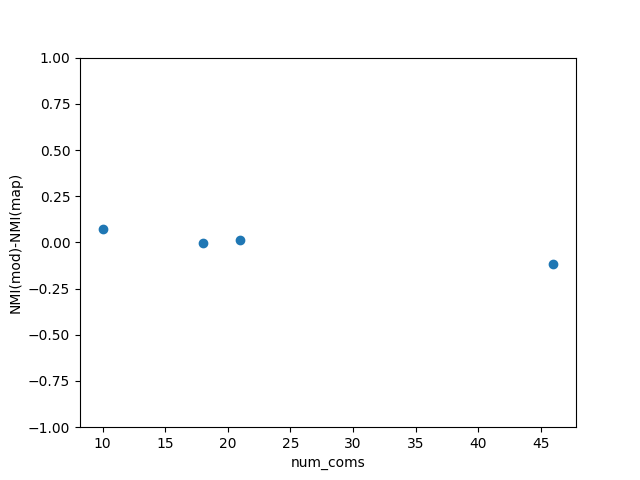
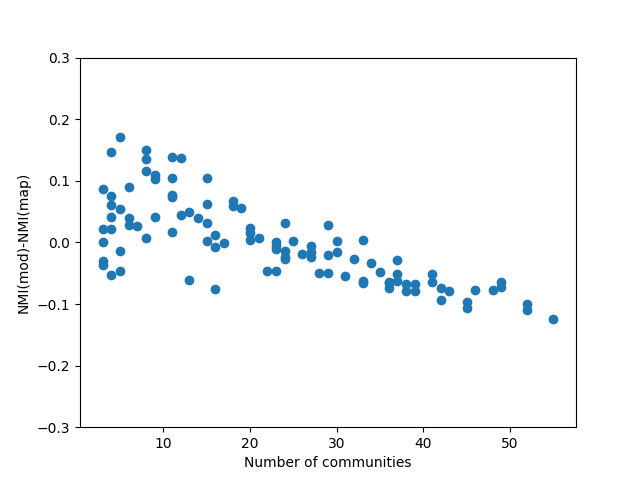
scatterplots

diff --git a/experiment/results/mu_results.tex b/experiment/results/mu_results.tex
@@ -1,15 +1,207 @@
-0.25,
-5,25,10,50,15,75,20,100,
-1
-0.25,0,0:25,5,14,18,13,5,20,11,6,25,6,6,15,14,14,14,6,7,9,10,20,10,7,5,24,7,25,5,9,7,9,9,7,9,8,6,10,6,12,12,10,7,11,7,6,9,
-0.25,0,map:0.8999903187529281,
-0.25,0,mod:0.7821359474666744,
-0.25,1,0:40,10,29,40,12,20,26,10,23,40,11,31,41,20,36,11,10,18,44,12,16,
-0.25,1,map:0.7553336480416906,
-0.25,1,mod:0.7661275815952324,
-0.25,2,0:30,18,18,29,30,21,17,24,18,24,19,16,29,36,29,69,56,17,
-0.25,2,map:0.7553144524010084,
-0.25,2,mod:0.7511096946495094,
-0.25,3,0:41,24,68,54,74,90,20,23,81,25,
-0.25,3,map:0.6182374507053332,
-0.25,3,mod:0.6883487021471024,
+0.2,
+5,25,10,50,15,75,20,100,25,125,30,150,35,175,40,200,45,225,50,250,55,275,60,300,65,325,70,350,75,375,80,400,5,50,5,75,5,100,5,125,5,150,5,175,5,200,5,225,5,250,5,275,5,300,5,325,5,350,5,375,5,400,5,25,15,35,25,45,35,55,45,65,55,75,7,27,9,29,11,31,13,33,15,35,17,37,19,39,5,29,5,33,5,37,5,41,5,45,5,49,5,53,
+2
+0.2,0,0:24,5,6,12,7,13,7,5,9,6,6,5,6,7,7,6,15,9,8,11,7,13,13,5,21,7,7,7,5,6,16,5,8,6,7,24,8,15,6,19,5,6,5,5,7,20,6,5,8,9,15,12,6,7,5,
+0.2,0,1:6,10,8,6,6,6,24,8,12,7,5,10,18,9,6,6,5,14,6,14,5,8,9,5,6,8,10,5,5,7,13,14,20,14,9,9,8,7,19,9,5,11,10,13,10,6,15,23,5,5,16,5,
+0.2,0,map:0.9326636228002231,0.9362785374409338,
+0.2,0,mod:0.8089288043751323,0.8363075688355388,
+0.2,1,0:10,10,29,41,22,37,17,22,20,10,18,21,14,37,22,18,13,18,29,15,44,22,11,
+0.2,1,1:27,15,31,45,15,24,23,35,10,26,39,21,41,32,15,10,32,11,48,
+0.2,1,map:0.8548276395630169,0.8221209126137337,
+0.2,1,mod:0.8447808856255871,0.8779768780251792,
+0.2,2,0:27,43,18,20,18,23,24,26,42,22,38,19,26,49,15,66,24,
+0.2,2,1:53,41,25,24,17,18,23,39,25,71,53,29,38,29,15,
+0.2,2,map:0.8651204064681326,0.7242623786601301,
+0.2,2,mod:0.8642045770938779,0.8289396395115203,
+0.2,3,0:38,23,85,84,27,29,27,49,23,27,47,41,
+0.2,3,1:21,49,23,20,72,27,34,27,25,32,49,58,43,20,
+0.2,3,map:0.7151998688448427,0.754821325813235,
+0.2,3,mod:0.7599993284034647,0.7938376449386024,
+0.2,4,0:46,29,39,35,45,39,123,25,32,46,41,
+0.2,4,1:29,78,25,43,32,38,38,33,28,77,32,47,
+0.2,4,map:0.62661446036157,0.6889055098116278,
+0.2,4,mod:0.7658136941977689,0.8258894286551403,
+0.2,5,0:40,72,42,33,35,54,32,43,67,39,43,
+0.2,5,1:44,35,46,150,33,102,90,
+0.2,5,map:0.6557939781427846,0.48181244396822126,
+0.2,5,mod:0.76029393279538,0.5076748943400707,
+0.2,6,0:61,132,41,46,48,60,68,44,
+0.2,6,1:56,37,36,67,138,61,52,53,
+0.2,6,map:0.6204580898746088,0.5526243632089665,
+0.2,6,mod:0.7366295236849122,0.7027613538566313,
+0.2,7,0:59,65,131,101,42,102,
+0.2,7,1:175,41,52,51,71,110,
+0.2,7,map:0.498314452020866,0.44997431644745284,
+0.2,7,mod:0.5377006126807493,0.5400680367748458,
+0.2,8,0:97,86,78,136,103,
+0.2,8,1:68,164,109,159,
+0.2,8,map:0.39454490351945165,0.3077278425507213,
+0.2,8,mod:0.3813475110924291,0.3823968922454002,
+0.2,9,0:83,101,112,113,91,
+0.2,9,1:55,67,56,91,75,156,
+0.2,9,map:0.41110492678902794,0.5143618387240945,
+0.2,9,mod:0.3646152737259831,0.5422563834617624,
+0.2,10,0:83,58,173,115,71,
+0.2,10,1:76,247,121,56,
+0.2,10,map:0.4249453731373205,0.3120318789516622,
+0.2,10,mod:0.47861614406299546,0.4581631823837859,
+0.2,11,0:93,169,141,97,
+0.2,11,1:107,173,114,106,
+0.2,11,map:0.31474682677965216,0.3456394258218729,
+0.2,11,mod:0.3365206885512682,0.4068697011001233,
+0.2,12,0:92,95,85,158,70,
+0.2,12,1:67,286,65,82,
+0.2,12,map:0.43365949953468663,0.295340957624788,
+0.2,12,mod:0.6044542552788922,0.24293446327713195,
+0.2,13,0:164,96,120,120,
+0.2,13,1:109,85,306,
+0.2,13,map:0.37672904955250924,0.20155643718531682,
+0.2,13,mod:0.4183726721133993,0.20185829038769654,
+0.2,14,0:236,101,163,
+0.2,14,1:267,78,155,
+0.2,14,map:0.22962926339885176,0.2450988495623367,
+0.2,14,mod:0.2511161578525033,0.21523620123720102,
+0.2,15,0:102,102,296,
+0.2,15,1:142,141,217,
+0.2,15,map:0.20620917822804657,0.21790685400416748,
+0.2,15,mod:0.16882292366462082,0.30528135310510357,
+0.2,16,0:5,6,24,23,14,9,17,7,10,7,38,16,5,17,8,14,5,8,21,5,31,5,6,6,6,8,23,24,5,6,6,7,22,28,9,12,5,24,8,
+0.2,16,1:5,5,6,12,9,41,5,5,5,11,6,14,7,7,26,8,18,13,5,15,5,5,6,7,8,6,8,16,10,7,24,37,6,39,15,7,8,7,5,11,7,6,7,10,5,5,
+0.2,16,map:0.914871063253547,0.8573134446145403,
+0.2,16,mod:0.8362310830775962,0.7801478609240203,
+0.2,17,0:31,13,28,22,5,32,30,53,7,9,7,7,38,18,7,5,47,52,6,8,5,6,5,6,6,12,9,5,11,10,
+0.2,17,1:5,12,10,6,28,8,5,73,15,5,18,8,37,10,5,18,6,6,9,16,5,5,16,19,9,19,17,9,17,6,27,8,7,11,25,
+0.2,17,map:0.8512607668526773,0.9154214007402045,
+0.2,17,mod:0.8356877750374754,0.8668794152996351,
+0.2,18,0:19,81,53,8,47,59,6,7,69,7,15,7,6,5,9,52,11,27,7,5,
+0.2,18,1:10,7,6,19,7,42,15,6,27,6,10,47,8,6,13,17,19,5,6,23,6,17,33,15,37,13,13,6,15,40,6,
+0.2,18,map:0.737061101501493,0.854331718763702,
+0.2,18,mod:0.741238083206187,0.7990726489358025,
+0.2,19,0:18,13,5,13,7,21,5,23,18,7,73,33,10,11,7,15,38,83,6,29,10,5,8,6,6,6,5,7,5,7,
+0.2,19,1:17,122,6,18,5,47,5,5,85,9,5,16,34,34,10,5,13,12,5,14,6,14,8,5,
+0.2,19,map:0.8538865401263656,0.7953012156621789,
+0.2,19,mod:0.856491728465073,0.8262205467752773,
+0.2,20,0:10,8,18,6,20,8,7,44,148,25,9,20,6,9,6,6,7,5,11,21,9,11,5,81,
+0.2,20,1:13,11,125,46,5,57,39,7,58,5,41,46,47,
+0.2,20,map:0.6930695701608885,0.6603759137916217,
+0.2,20,mod:0.6658796389102495,0.7101544687283378,
+0.2,21,0:7,5,6,6,54,13,8,5,44,67,5,7,10,33,5,8,13,5,10,5,21,6,7,18,39,5,9,8,6,7,39,6,7,6,
+0.2,21,1:10,33,6,91,20,9,16,12,6,5,28,5,6,5,20,19,7,7,5,10,5,7,5,9,5,5,5,6,55,22,7,9,12,6,8,6,8,
+0.2,21,map:0.8457979746757853,0.8168533863013558,
+0.2,21,mod:0.8127015667021756,0.7875116517400618,
+0.2,22,0:7,33,10,5,16,9,5,8,8,10,10,19,14,35,17,8,48,5,5,6,6,21,5,8,7,101,12,53,9,
+0.2,22,1:5,21,15,82,106,13,12,19,7,5,5,7,5,5,46,24,30,5,5,8,29,5,10,8,10,7,6,
+0.2,22,map:0.7656275231047606,0.7173596600889591,
+0.2,22,mod:0.716200061240134,0.7114654484779216,
+0.2,23,0:5,128,99,5,22,5,5,22,209,
+0.2,23,1:43,13,77,5,5,6,127,38,44,6,8,5,8,22,43,19,11,20,
+0.2,23,map:0.408047039078835,0.7575793670368541,
+0.2,23,mod:0.4493965366079914,0.8244176946721425,
+0.2,24,0:10,7,28,7,16,6,5,13,7,6,5,6,8,15,41,7,5,19,12,5,26,6,6,5,21,12,6,10,123,5,8,37,7,
+0.2,24,1:223,10,7,15,12,6,7,72,5,51,21,6,6,10,7,42,
+0.2,24,map:0.8196242220319205,0.540947543637332,
+0.2,24,mod:0.7542189869291739,0.5526765140511329,
+0.2,25,0:6,7,11,6,6,5,6,265,14,5,11,98,19,30,5,6,
+0.2,25,1:16,42,101,5,7,246,7,11,7,5,6,7,8,12,20,
+0.2,25,map:0.4122371352165447,0.46258426750219633,
+0.2,25,mod:0.33581024226065076,0.493935455009323,
+0.2,26,0:5,21,12,6,10,49,141,16,5,24,5,12,9,53,9,10,8,5,8,6,11,16,33,9,17,
+0.2,26,1:14,7,6,12,26,8,5,20,11,23,6,5,7,6,33,5,17,17,8,8,5,5,29,14,5,17,87,8,57,8,5,5,11,
+0.2,26,map:0.7448372251926519,0.8300977659926115,
+0.2,26,mod:0.7472890644050201,0.8335194392755284,
+0.2,27,0:10,5,13,69,25,36,112,5,5,7,12,8,9,5,11,7,8,8,7,7,5,5,5,10,61,8,15,15,7,
+0.2,27,1:7,38,22,6,22,5,15,6,9,15,5,19,199,20,19,11,7,6,5,64,
+0.2,27,map:0.786429628683929,0.6389626551164147,
+0.2,27,mod:0.8147033433301053,0.6542046873684036,
+0.2,28,0:30,6,14,6,5,13,7,6,7,5,7,21,32,7,6,9,12,61,6,10,127,9,36,7,41,10,
+0.2,28,1:7,8,9,31,18,9,16,54,29,25,14,40,13,6,10,10,10,5,7,41,22,5,37,7,7,7,10,13,5,6,8,11,
+0.2,28,map:0.8088371634783028,0.8664289693516248,
+0.2,28,mod:0.7894820597604549,0.83985421240285,
+0.2,29,0:5,74,7,25,11,7,223,20,7,80,8,5,8,5,10,5,
+0.2,29,1:7,9,5,7,27,115,5,6,32,9,8,5,6,11,27,5,5,38,5,25,14,22,38,47,6,9,7,
+0.2,29,map:0.4761525555976598,0.7617258595517653,
+0.2,29,mod:0.46863968548570695,0.738812705984476,
+0.2,30,0:10,9,36,228,97,18,44,14,15,9,20,
+0.2,30,1:335,6,5,6,6,9,61,24,18,5,10,6,9,
+0.2,30,map:0.49540989798427576,0.3841838253336069,
+0.2,30,mod:0.5115164248257957,0.3232092441681697,
+0.2,31,0:14,6,18,6,7,5,6,5,13,5,5,5,5,7,7,5,11,5,24,5,8,7,8,24,9,5,16,14,7,6,6,10,5,13,19,15,7,12,6,12,6,19,11,20,25,6,18,5,17,
+0.2,31,1:5,8,12,6,11,6,12,7,6,17,7,6,7,6,9,5,10,7,13,7,5,9,6,6,5,20,8,6,14,5,11,18,6,14,19,24,5,9,8,8,9,25,14,11,11,9,10,9,8,5,7,9,
+0.2,31,map:0.9271145450319658,0.9347613802862115,
+0.2,31,mod:0.8636246585092703,0.8248174665913119,
+0.2,32,0:26,15,34,25,30,15,18,15,16,21,19,24,19,19,16,31,21,31,16,18,16,20,35,
+0.2,32,1:16,18,34,16,22,17,17,20,27,25,33,16,25,23,17,15,17,17,15,29,22,25,34,
+0.2,32,map:0.9006107410554209,0.8336402616615586,
+0.2,32,mod:0.8549042553323358,0.8273060196474172,
+0.2,33,0:26,45,25,43,42,30,37,26,27,32,40,28,26,30,43,
+0.2,33,1:40,25,41,45,42,30,25,30,31,33,29,31,41,30,27,
+0.2,33,map:0.7932023663567863,0.7563763780926263,
+0.2,33,mod:0.8548295026903037,0.7579042305631946,
+0.2,34,0:55,35,42,39,54,46,45,45,46,55,38,
+0.2,34,1:39,42,38,50,37,55,44,49,51,48,47,
+0.2,34,map:0.7510839593560797,0.683195977684961,
+0.2,34,mod:0.8284902529819999,0.7565153589211686,
+0.2,35,0:63,55,58,54,47,55,65,51,52,
+0.2,35,1:52,65,49,53,56,61,54,50,60,
+0.2,35,map:0.6487007630588935,0.6286953246701197,
+0.2,35,mod:0.7579613145693409,0.7323303153759327,
+0.2,36,0:69,57,59,67,66,65,58,59,
+0.2,36,1:58,73,58,62,75,58,58,58,
+0.2,36,map:0.6377770755301939,0.5597197480159725,
+0.2,36,mod:0.645324473959045,0.6944872103847065,
+0.2,37,0:8,15,9,10,12,7,22,17,22,16,16,15,9,27,25,13,26,7,9,14,13,18,12,9,10,17,21,8,23,8,9,7,11,7,8,11,9,
+0.2,37,1:15,13,15,7,22,8,8,17,19,21,7,12,21,8,7,8,12,10,10,11,7,9,23,17,16,9,25,18,13,8,10,8,23,15,7,12,14,7,8,
+0.2,37,map:0.8884316884620265,0.9200098690189094,
+0.2,37,mod:0.8254960304531042,0.8530271839086682,
+0.2,38,0:13,17,10,10,16,12,12,21,10,11,9,23,22,14,26,16,10,9,17,11,19,16,10,11,11,13,12,12,15,9,17,12,13,10,11,11,9,
+0.2,38,1:20,9,9,19,12,10,9,21,17,10,11,26,20,14,23,10,9,12,9,11,10,9,22,18,22,12,10,12,26,20,20,10,28,
+0.2,38,map:0.9109467396261002,0.9216546661194285,
+0.2,38,mod:0.8594171233209297,0.8591347153670135,
+0.2,39,0:22,24,25,24,14,13,11,17,26,25,18,20,13,11,16,15,18,12,24,12,13,18,11,27,12,28,17,14,
+0.2,39,1:12,16,19,31,19,20,25,28,12,12,12,12,17,19,15,14,12,26,16,23,16,11,16,16,27,11,20,11,12,
+0.2,39,map:0.8682793380911419,0.890807950321572,
+0.2,39,mod:0.8180849460056794,0.8706757480110942,
+0.2,40,0:13,22,13,17,15,16,31,24,22,19,31,23,26,24,20,29,15,15,15,23,16,13,33,25,
+0.2,40,1:13,13,19,24,13,13,15,22,23,13,18,19,16,23,13,25,26,16,17,30,14,20,18,18,14,18,27,
+0.2,40,map:0.8785597446996447,0.8712157516933069,
+0.2,40,mod:0.8648145600471111,0.8564316905999949,
+0.2,41,0:16,16,22,17,22,21,26,23,34,21,32,21,22,15,20,29,24,15,31,19,15,22,17,
+0.2,41,1:19,20,28,20,15,33,18,19,32,18,20,16,21,30,18,17,30,15,17,16,18,28,15,17,
+0.2,41,map:0.8501744976599013,0.8785207308975064,
+0.2,41,mod:0.8513920582145592,0.8549968653976234,
+0.2,42,0:18,27,18,25,18,17,19,32,24,21,36,33,19,26,18,28,20,22,20,19,19,21,
+0.2,42,1:33,33,19,21,18,23,31,20,23,18,17,34,22,30,19,21,30,17,35,17,19,
+0.2,42,map:0.8830070113098095,0.8248829527577445,
+0.2,42,mod:0.8369131928995378,0.831692806902049,
+0.2,43,0:27,26,21,23,20,35,19,30,27,33,39,24,35,29,24,30,22,36,
+0.2,43,1:30,38,28,19,36,20,20,22,21,25,33,25,19,39,21,23,21,20,19,21,
+0.2,43,map:0.8038108532640946,0.8220896189943191,
+0.2,43,mod:0.8621836478913216,0.8453481479573042,
+0.2,44,0:13,6,6,6,5,16,11,14,13,14,7,17,9,12,17,7,12,27,7,16,13,6,7,5,6,10,5,14,5,6,6,5,6,7,23,11,25,14,18,10,5,16,11,26,5,
+0.2,44,1:5,8,5,10,28,9,5,14,8,6,29,8,5,8,7,5,7,22,16,9,5,14,28,23,5,13,6,7,5,5,9,6,11,17,5,6,11,5,5,5,5,5,6,10,7,29,12,16,5,
+0.2,44,map:0.9315560229237344,0.8891907407611762,
+0.2,44,mod:0.8255344541333621,0.8175616509328434,
+0.2,45,0:7,13,11,6,5,19,5,5,6,11,23,8,30,25,8,25,18,9,5,10,10,8,16,9,15,5,13,14,11,7,5,9,6,14,12,10,7,32,6,9,5,28,
+0.2,45,1:15,10,11,13,32,28,21,5,6,27,11,9,16,17,25,20,6,5,8,8,5,22,5,6,6,8,8,7,6,18,5,26,31,8,10,8,18,10,
+0.2,45,map:0.9275720414895694,0.8987295417733913,
+0.2,45,mod:0.8533279328637049,0.81949572231357,
+0.2,46,0:22,37,7,9,5,9,18,7,7,6,6,8,11,5,5,7,24,9,6,7,7,13,9,21,15,17,27,9,7,9,5,16,7,5,6,5,8,20,20,8,28,13,10,
+0.2,46,1:11,8,14,11,6,7,12,5,5,5,9,6,10,26,5,6,6,10,8,18,14,5,8,9,9,9,19,25,19,5,12,6,13,22,5,18,8,5,26,9,16,5,7,5,5,12,7,9,
+0.2,46,map:0.9156689638336017,0.91082224285578,
+0.2,46,mod:0.836301592983237,0.8327623822888204,
+0.2,47,0:7,8,5,12,9,5,26,13,14,19,8,5,14,6,18,11,11,6,7,5,25,5,7,32,11,17,22,6,6,8,36,5,12,13,23,15,5,11,7,17,8,
+0.2,47,1:5,5,7,20,7,22,12,7,6,7,16,14,6,13,5,5,5,9,25,11,5,10,5,8,18,8,34,7,9,33,5,11,7,25,11,5,5,15,10,12,12,5,15,13,5,
+0.2,47,map:0.9145854980591622,0.9190331103702721,
+0.2,47,mod:0.8631146473848573,0.8215102357141085,
+0.2,48,0:7,5,5,35,11,17,7,8,7,5,12,7,6,26,15,8,8,39,5,6,5,9,12,37,11,13,24,5,6,5,20,9,27,9,7,19,14,29,
+0.2,48,1:5,9,8,6,5,30,9,7,5,5,13,13,13,8,7,6,8,43,17,6,13,14,23,6,11,5,8,44,23,29,11,5,8,9,5,5,14,7,5,18,5,9,
+0.2,48,map:0.9031667100955655,0.9133602636204142,
+0.2,48,mod:0.8363550603266217,0.8201421864620382,
+0.2,49,0:14,8,35,16,18,18,7,32,6,5,12,13,9,5,8,9,6,49,15,8,5,11,8,18,6,6,6,8,12,13,10,6,8,13,6,6,10,9,19,17,10,
+0.2,49,1:5,8,8,7,7,6,5,7,26,29,6,6,5,7,29,11,13,11,9,12,10,20,9,45,27,12,8,14,5,35,10,43,7,20,13,5,
+0.2,49,map:0.8858925705865587,0.8452312357588383,
+0.2,49,mod:0.8217286629446665,0.770767031038132,
+0.2,50,0:11,7,26,15,6,37,5,5,9,9,5,5,16,19,7,6,46,8,29,45,13,12,6,12,24,5,5,7,34,8,5,7,8,13,11,14,
+0.2,50,1:32,10,7,7,5,9,33,11,5,7,9,5,21,12,41,5,6,17,21,6,13,16,15,8,7,51,23,6,20,13,9,6,5,15,18,6,
+0.2,50,map:0.8825501183665038,0.8973590472726428,
+0.2,50,mod:0.8167798121344849,0.8335402751437174,

diff --git a/experiment/main.py b/experiment/main.py
@@ -12,18 +12,33 @@ import copy
 #import community as community_louvain
 import random
 import time
+import numpy as np
 
 def main():
-    mus = [0.25]
+    mus = [0.2]
     # mus=[0.1]
     # (3*mult,5*mult),(mult, 5*mult), (mult, 6*mult),
     a= 5
     b = 25
-    c= 5
+    c= 10
     # comsizes = [(a,b),(2*a,2*b),(3*a,3*b),(4*a,4*b), (a,2*b), (a,3*b),(a,4*b),(a+c,b+c),(a+2*c,b+2*c),(a+3*c,b+3*c)]
-    comsize = []
-    for i in np.arrange(1,4,0.2):
-        comsize.append((round(i*a),round(i*b)))
+    comsizes = []
+    #for i in range(1,17):
+    #    comsizes.append((round(i*a),round(i*b)))
+    #for i in range(2,17):
+    #     comsizes.append((a,i*b))
+    'Eerste'
+    for i in range(0, 6):
+        comsizes.append((a+i*c, b+i*c))
+    d = 2
+    for i in range(1,8):
+        comsizes.append((a+i*d, b+i*d))
+    e = 4
+    for i in range(1,8):
+        comsizes.append((a, b+i*e))
+        
+    'Tweede'
+    
     # comsizes = [(a,b)]
     num_runs = 2
     results = {}
@@ -101,7 +116,8 @@ def save_results(params,results):
     
     for key in results:
         mu , comsize, name = key
-        f.write(str(mu)+ ","+ str(comsize) + ","+ str(name))
+        #f.write(str(mu)+ ","+ str(comsize) + ","+ str(name))
+        f.write(str(mu)+ ","+ str(comsize+31) + ","+ str(name))
         f.write(":")
         for result in results[key]:
             f.write(str(result)+ ',')
@@ -109,5 +125,5 @@ def save_results(params,results):
     f.close()
 
 
-random.seed(25)
+random.seed(5)
 main()

diff --git a/experiment/plotscatter.py b/experiment/plotscatter.py
@@ -47,12 +47,14 @@ def plot_results_2(mus, comrange,num_runs, results, eigenschap):
     x = []
     y = []
     for com in range(len(comrange)):
+    #for com in range(31, len(comrange)+31):
         for run in range(num_runs):
             mo = results[(mu,com,'mod')][run]
             ma = results[(mu,com,'map')][run]
             verschil = mo - ma
             y.append(verschil)
             comsizes = results[(mu,com,str(run))]
+            
             l = len(comsizes)
             if eigenschap == 'num_small':
                 aantal = 0
@@ -90,13 +92,14 @@ def plot_results_2(mus, comrange,num_runs, results, eigenschap):
     plt.xlabel(naam)
     plt.ylabel('NMI(mod)-NMI(map)')
     #plt.title('Objective function: modularity')   
-    plt.ylim(-1,1)
+    plt.ylim(-0.3,0.3)
     plt.savefig('plot'+eigenschap+'.png') 
     plt.show() 
      
     
 
 mus, comrange,num_runs, results = read_results2()
-eigenschappen = ['num_small', 'frac_small', 'av_size', 'range', 'num_coms', 'smallest_comsize', 'largest_comsize']
+#eigenschappen = ['num_small', 'frac_small', 'av_size', 'range', 'num_coms', 'smallest_comsize', 'largest_comsize']
+eigenschappen = ['num_small', 'frac_small', 'num_coms']
 for i in eigenschappen:
     plot_results_2(mus, comrange,num_runs, results, i)
